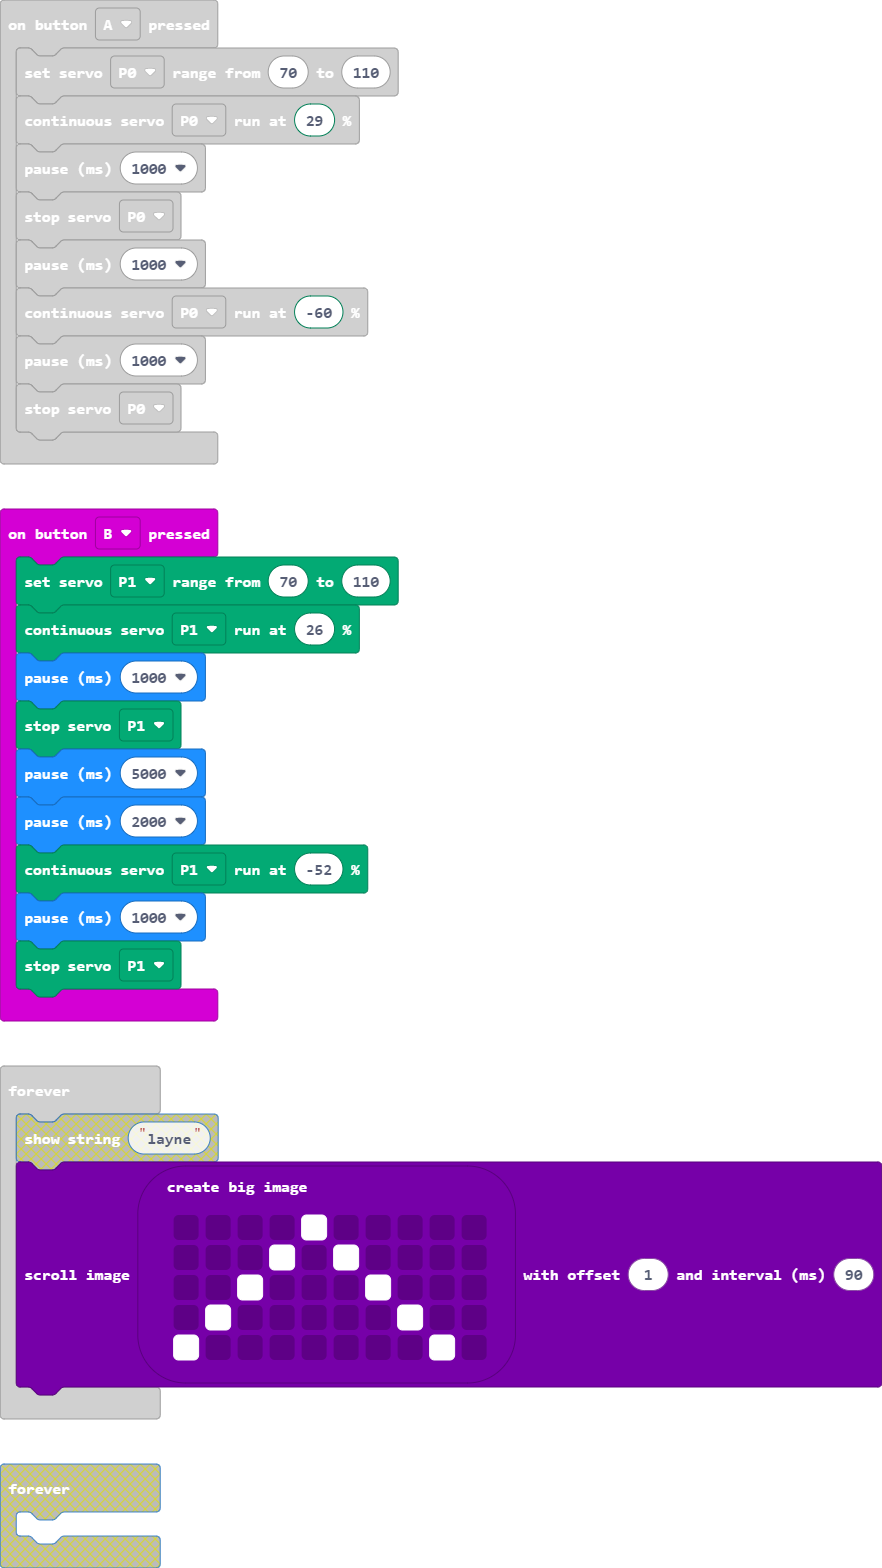
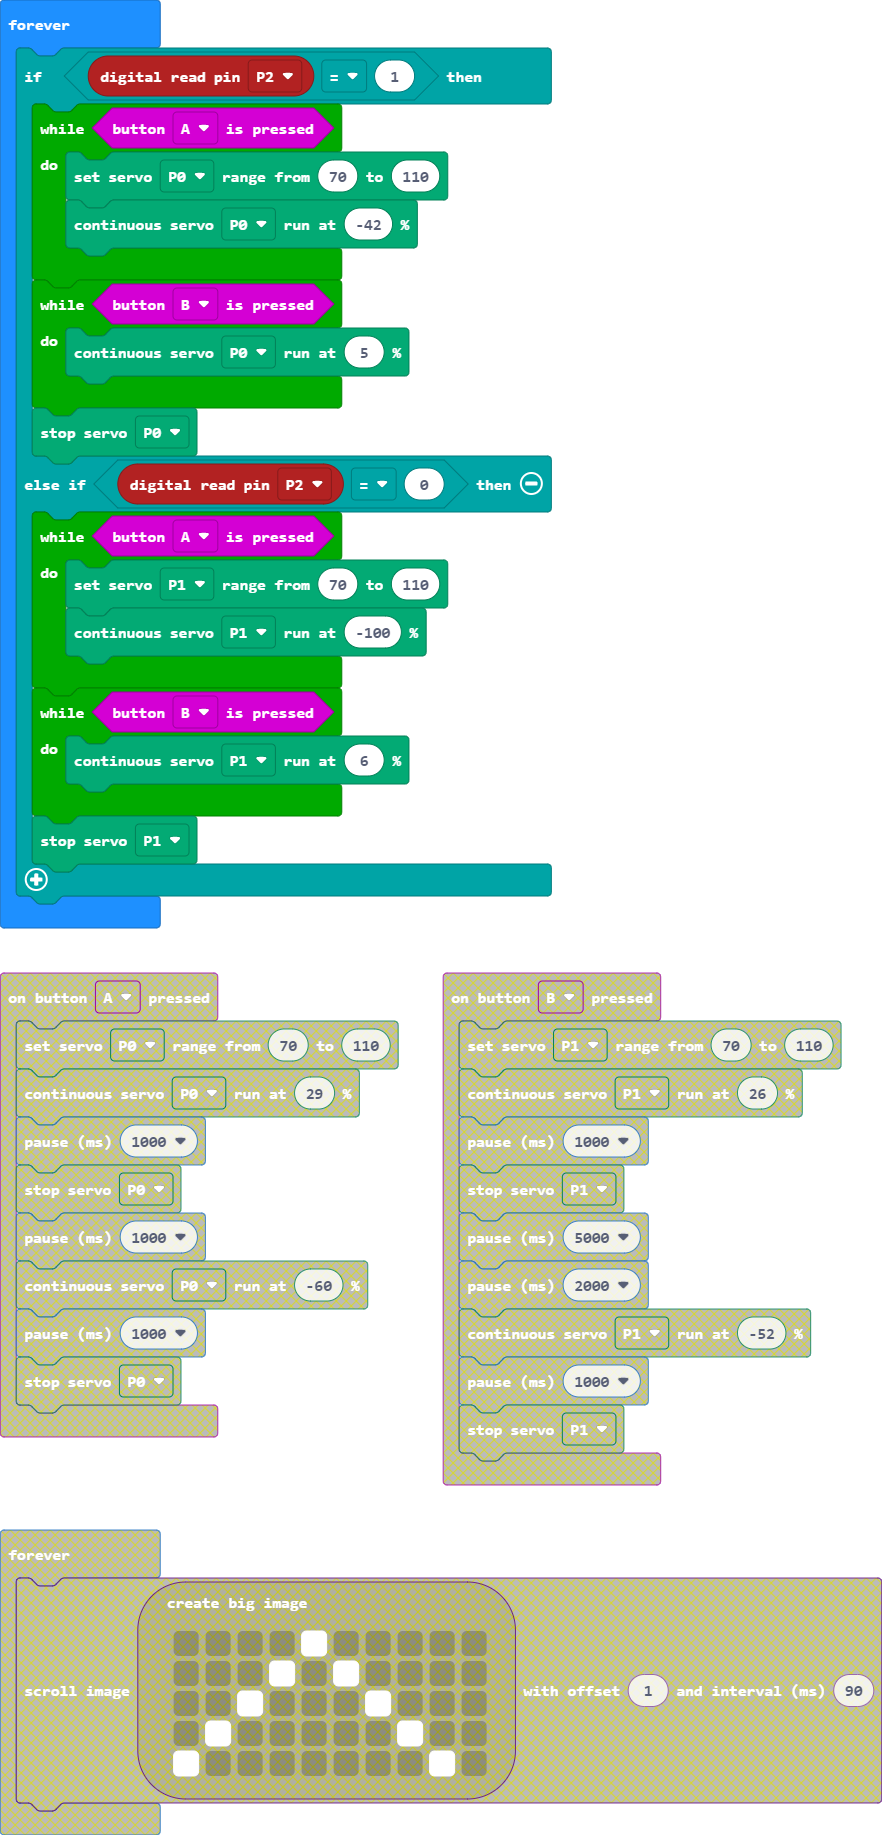
Update main.blocks, main.ts

diff --git a/main.ts b/main.ts
@@ -1,30 +1,21 @@
-input.onButtonPressed(Button.A, function () {
-    servos.P0.setRange(70, 110)
-    servos.P0.run(29)
-    basic.pause(1000)
-    servos.P0.stop()
-    basic.pause(1000)
-    servos.P0.run(-60)
-    basic.pause(1000)
-    servos.P0.stop()
-})
-input.onButtonPressed(Button.B, function () {
-    servos.P1.setRange(70, 110)
-    servos.P1.run(26)
-    basic.pause(1000)
-    servos.P1.stop()
-    basic.pause(5000)
-    basic.pause(2000)
-    servos.P1.run(-52)
-    basic.pause(1000)
-    servos.P1.stop()
-})
 basic.forever(function () {
-    images.createBigImage(`
-        . . . . # . . . . .
-        . . . # . # . . . .
-        . . # . . . # . . .
-        . # . . . . . # . .
-        # . . . . . . . # .
-        `).scrollImage(1, 90)
+    if (pins.digitalReadPin(DigitalPin.P2) == 1) {
+        while (input.buttonIsPressed(Button.A)) {
+            servos.P0.setRange(70, 110)
+            servos.P0.run(-42)
+        }
+        while (input.buttonIsPressed(Button.B)) {
+            servos.P0.run(5)
+        }
+        servos.P0.stop()
+    } else if (pins.digitalReadPin(DigitalPin.P2) == 0) {
+        while (input.buttonIsPressed(Button.A)) {
+            servos.P1.setRange(70, 110)
+            servos.P1.run(-100)
+        }
+        while (input.buttonIsPressed(Button.B)) {
+            servos.P1.run(6)
+        }
+        servos.P1.stop()
+    }
 })
